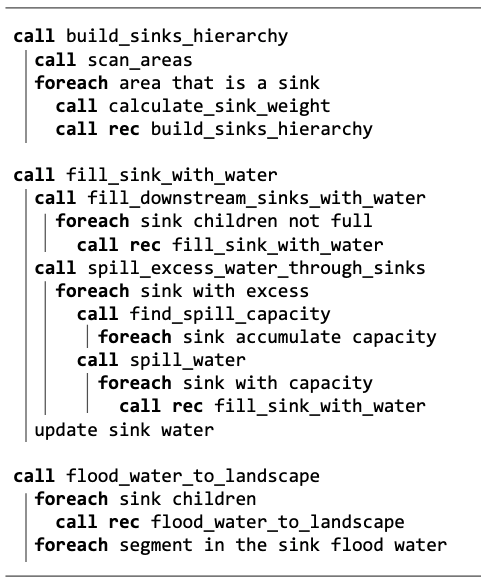
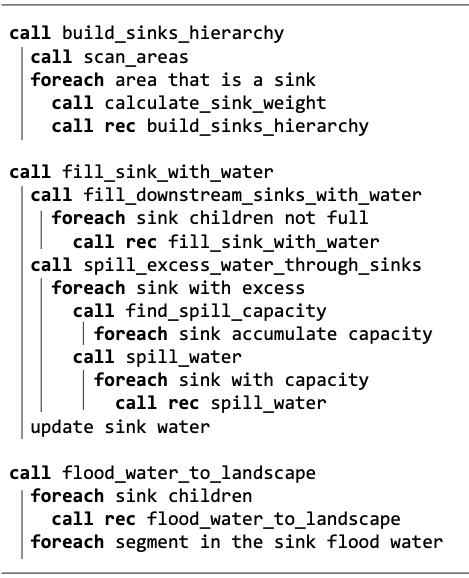
fix spilling with fill up & fix some floating point errors

Changed region(s): [[0.0, 0.2803, 0.9254, 0.7785], [0.0, 0.0, 1.0, 0.2491], [0.0, 0.7785, 1.0, 0.9965]]

diff --git a/src/water_flow.rs b/src/water_flow.rs
@@ -92,11 +92,12 @@ impl Sink {
 
   #[inline]
   pub fn total_water(&self) -> f64 {
-    self
-      .children
-      .iter()
-      .map(|child| child.water)
-      .fold(0.0, |accum, water| accum + water)
+    self.water
+      + self
+        .children
+        .iter()
+        .map(|child| child.total_water())
+        .fold(0.0, |accum, water| accum + water)
   }
 }
 
@@ -141,13 +142,20 @@ impl WaterFlow {
 
     let total_width = (end - start + 1) as f64;
 
+    let mut total_weight = 0.0;
     for index in 1..areas.len() - 1 {
       if let Area::Sink { start, end, bottom } = &areas[index] {
         let weight = Self::calculate_sink_weight(areas.as_slice(), index, total_width);
+        total_weight += weight;
         let children = Self::build_sinks_hierarchy(landscape, *start, *end, *bottom);
         let sink = Sink::new(weight, *start, *end, level, *bottom, children);
         sinks.push(sink);
       }
+    }
+
+    // In case there are floating point errors that we need to compensate for
+    if !sinks.is_empty() && total_weight < 1.0 {
+      sinks[0].weight += 1.0 - total_weight;
     }
 
     sinks
@@ -313,9 +321,18 @@ impl WaterFlow {
     let mut total_filled = 0.0;
     let mut total_excess = 0.0;
 
+    // We need to compensate for possible floating point errors
+    let total_quota = sink
+      .children
+      .iter()
+      .map(|child| amount * child.weight)
+      .fold(0.0, |acc, quota| acc + quota);
+    let mut quota_error = amount - total_quota;
+
     for (child, sink_excess) in sink.children.iter_mut().zip(excess.iter_mut()) {
       if !child.is_full() {
-        let quota = amount * child.weight;
+        let quota = amount * child.weight + quota_error;
+        quota_error = 0.0;
         let filled = Self::fill_sink_with_water(landscape, child, quota);
         *sink_excess = quota - filled;
         total_excess += *sink_excess;
@@ -345,8 +362,10 @@ impl WaterFlow {
             let (left_water, right_water) =
               Self::spilled_amount(*sink_excess, left_capacity, right_capacity);
             let children = sink.children.as_mut_slice();
-            let left_spilled = Self::spill_water(landscape, children, index, -1, left_water);
-            let right_spilled = Self::spill_water(landscape, children, index, 1, right_water);
+            let left_spilled =
+              Self::spill_water(landscape, children, index as isize, -1, left_water);
+            let right_spilled =
+              Self::spill_water(landscape, children, index as isize, 1, right_water);
             let spilled = left_spilled + right_spilled;
             *sink_excess -= spilled;
             total_spilled += spilled;
@@ -387,7 +406,7 @@ impl WaterFlow {
   fn spill_water(
     landscape: &[SegmentLevel],
     sinks: &mut [Sink],
-    index: usize,
+    index: isize,
     direction: isize,
     mut amount: f64,
   ) -> f64 {
@@ -396,8 +415,19 @@ impl WaterFlow {
     index += direction;
     while amount > 0.0 && index >= 0 && (index as usize) < sinks.len() {
       let sink = &mut sinks[index as usize];
-      if sink.total_capacity > 0.0 {
-        let spill_amount = Self::fill_sink_with_water(landscape, sink, amount);
+      if sink.total_capacity - sink.total_water() > 0.0 {
+        let spill_amount = if sink.children.is_empty() {
+          Self::fill_sink_with_water(landscape, sink, amount)
+        } else {
+          let index = if direction == -1 {
+            sink.children.len() as isize
+          } else {
+            -1
+          };
+          let children_amount =
+            Self::spill_water(landscape, &mut sink.children, index, direction, amount);
+          Self::fill_sink_with_water(landscape, sink, amount - children_amount) + children_amount
+        };
         total_spilled += spill_amount;
         amount -= spill_amount;
       }
@@ -448,6 +478,10 @@ impl WaterFlow {
 
 #[cfg(test)]
 mod tests {
+  use assert_approx_eq::assert_approx_eq;
+  use rand::thread_rng;
+  use rand::Rng;
+
   use super::*;
   use crate::simulation::tests::assert_slice_approx_eq_with_epsilon;
 
@@ -604,5 +638,39 @@ mod tests {
       &[2.0, 5.0, 2.0, 0.0, 1.0],
       0.1,
     );
+  }
+
+  #[test]
+  fn water_flow_rain_spill_with_recursion_and_fill_up() {
+    let mut water_flow = WaterFlow::new(vec![4, 7, 5, 8, 6, 9, 7]);
+
+    water_flow.rain(2.0);
+
+    assert_slice_approx_eq_with_epsilon(
+      water_flow.water.as_slice(),
+      &[4.4, 1.4, 3.4, 0.4, 2.4, 0.0, 2.0],
+      0.1,
+    );
+  }
+
+  #[test]
+  fn water_flow_rain_total_volume_is_conserved_within_an_error_interval() {
+    let mut rng = thread_rng();
+    for _ in 0..1000 {
+      let size = rng.gen_range(1..100);
+      let mut landscape = Vec::with_capacity(size);
+      for _ in 0..size {
+        landscape.push(rng.gen_range(0..20))
+      }
+
+      let mut water_flow = WaterFlow::new(landscape);
+
+      let hours = rng.gen_range(1..10) as f64;
+      water_flow.rain(hours);
+
+      let volume = water_flow.water.iter().fold(0.0, |acc, &x| acc + x);
+      let expected_volume = size as f64 * hours;
+      assert_approx_eq!(volume, expected_volume, expected_volume * 0.07);
+    }
   }
 }

diff --git a/src/protocol.rs b/src/protocol.rs
@@ -11,7 +11,7 @@ use tungstenite::{Error as WsError, Message};
 
 use crate::simulation::Simulation;
 
-const FORWARD_HOURS: f64 = 1000.0;
+const FORWARD_HOURS: f64 = 1.0;
 const STEP_DELAY_MILLIS: u64 = 200;
 
 #[derive(Debug, PartialEq, Serialize, Deserialize)]

diff --git a/src/simulation.rs b/src/simulation.rs
@@ -1,6 +1,6 @@
 use crate::water_flow::WaterFlow;
 
-pub(crate) const DELTA_TIME: f64 = 0.05;
+pub(crate) const DELTA_TIME: f64 = 0.1;
 
 pub struct Simulation {
   hours: f64,

diff --git a/README.md b/README.md
@@ -124,7 +124,7 @@ T(fill_downstream_sinks_with_water) = S * T(fill_sink_with_water)
 T(fill_downstream_sinks_with_water) = O(S * log S)
 T(fill_downstream_sinks_with_water) = O(N * log N)
 
-T(spill_excess_water_through_sinks) = S * (O(S) + S * T(fill_sink_with_water))
+T(spill_excess_water_through_sinks) = S * (O(S) + S * T(spill_water))
 T(spill_excess_water_through_sinks) = S * (O(S) + O(S * log S))
 T(spill_excess_water_through_sinks) = O(S^2) + O(S^2 * log S)
 T(spill_excess_water_through_sinks) = O(N^2 * log N)
@@ -176,6 +176,21 @@ You can observe how the segments 7 and 13 spill into the center without filling 
 ```
 
 ![](images/testcase2.png)
+
+**This case spills recursively and fills remaining water to the upper sinks**
+```
+1,4,2,5,3,6,4,7,5,8,6,9,7
+```
+
+![](images/testcase3.png)
+
+**This represents a combination of different possible cases**
+
+```
+1,2,3,4,5,6,7,8,9,8,7,6,5,4,3,2,1,1,1,3,3,8,1,0,11,9,1,2,1,1,2,1,2,1,2,2,1,1,1,5,5,8,7,8,1
+```
+
+![](images/testcase4.png)
 
 ## Development instructions
 
